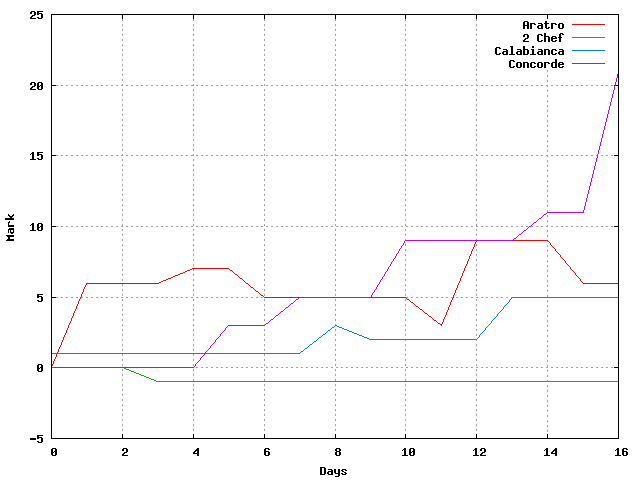
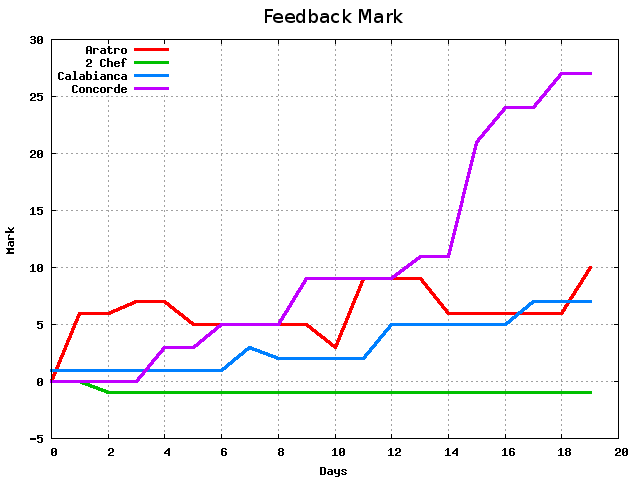
issue https://github.com/danieleceoldo/restaurant-poll/issues/6

diff --git a/polls/templates/polls/vote_result.html b/polls/templates/polls/vote_result.html
@@ -114,7 +114,9 @@
                 {% endif %}
 
                 {% load static %}
-		<img src="{% static "polls/images/feedback_graph.png" %}" alt="feedback_graph" style="display: block; margin: 0 auto; margin-top: 20px; margin-bottom: 20px"/>
+                <img src="{% static "polls/images/feedback_graph.png" %}" alt="feedback_graph" style="display: block; margin: 0 auto; margin-top: 20px; margin-bottom: 20px"/>
+                <img src="{% static "polls/images/win_history_graph.png" %}" alt="win_history_graph" style="display: block; margin: 0 auto; margin-top: 20px; margin-bottom: 20px"/>
+                <img src="{% static "polls/images/win_graph.png" %}" alt="win_history_graph" style="display: block; margin: 0 auto; margin-top: 20px; margin-bottom: 20px"/>
 
             </section>
             <nav class="aside">

diff --git a/polls/templates/polls/vote_waiting.html b/polls/templates/polls/vote_waiting.html
@@ -94,7 +94,9 @@
                 </ul>
 
                 {% load static %}
-		<img src="{% static "polls/images/feedback_graph.png" %}" alt="feedback_graph" style="display: block; margin: 0 auto; margin-top: 20px; margin-bottom: 20px"/>
+                <img src="{% static "polls/images/feedback_graph.png" %}" alt="feedback_graph" style="display: block; margin: 0 auto; margin-top: 20px; margin-bottom: 20px"/>
+                <img src="{% static "polls/images/win_history_graph.png" %}" alt="feedback_graph" style="display: block; margin: 0 auto; margin-top: 20px; margin-bottom: 20px"/>
+                <img src="{% static "polls/images/win_graph.png" %}" alt="feedback_graph" style="display: block; margin: 0 auto; margin-top: 20px; margin-bottom: 20px"/>
 
             </section>
             <nav class="aside">

diff --git a/polls/templates/polls/vote_detail.html b/polls/templates/polls/vote_detail.html
@@ -90,7 +90,9 @@
                 </form>
 
                 {% load static %}
-		<img src="{% static "polls/images/feedback_graph.png" %}" alt="feedback_graph" style="display: block; margin: 0 auto; margin-top: 20px;"/>
+                <img src="{% static "polls/images/feedback_graph.png" %}" alt="feedback_graph" style="display: block; margin: 0 auto; margin-top: 20px;"/>
+                <img src="{% static "polls/images/win_history_graph.png" %}" alt="feedback_graph" style="display: block; margin: 0 auto; margin-top: 20px;"/>
+                <img src="{% static "polls/images/win_graph.png" %}" alt="feedback_graph" style="display: block; margin: 0 auto; margin-top: 20px;"/>
 
             </section>
             <nav class="aside">

diff --git a/polls/views.py b/polls/views.py
@@ -168,11 +168,13 @@ def index(request):
     feedback_graph_stat_mtime = timezone.localtime(pytz.timezone('UTC').localize((datetime.fromtimestamp(stat('images/feedback_graph.png').st_ctime))))
 
     if now > feedback_graph_stat_mtime + timedelta(minutes=10):
-        f = open('feedback_graph_data.txt','w')
+
         if now > poll_close_time:
             ballot_dates = Ballot.objects.filter(date__lte=date.today()).order_by('date')
         else:
             ballot_dates = Ballot.objects.filter(date__lt=date.today()).order_by('date')
+
+        f = open('feedback_graph_data.txt','w')
         for name in Ranking.objects.all():
             f.write('# ' + str(name.restaurant) + '\n')
             mark = 0
@@ -194,6 +196,7 @@ def index(request):
         f.write('set grid\n')
         f.write('show grid\n')
         f.write('set key left top\n')
+        f.write('show key\n')
         f.write('set title "Feedback Mark" font "sans, 14"\n')
         f.write('show title\n')
         plot_str = ""
@@ -204,6 +207,79 @@ def index(request):
 
         system('gnuplot generate_feedback_graph.gnuplot')
         system('mv feedback_graph.png images')
+
+        restaurant_list = []
+        for name in Ranking.objects.all():
+            restaurant_list.append(name.restaurant)
+        restaurant_list.sort()
+
+        f = open('win_history_graph_data.txt','w')
+        for ballot in ballot_dates:
+            f.write(str(restaurant_list.index(ballot.winner)) + '\n')
+        f.close()
+
+        f = open('generate_win_history_graph.gnuplot','w')
+        f.write('set terminal png medium size 640,480\n')
+        f.write('set output "win_history_graph.png"\n')
+        f.write('set xlabel "Days"\n')
+        f.write('show xlabel\n')
+        f.write('set grid\n')
+        f.write('set grid noxtics\n')
+        f.write('show grid\n')
+        f.write('set key off\n')
+        f.write('set yrange [-1:4]\n')
+        f.write('show yrange\n')
+        f.write('set xrange [-1:]\n')
+        f.write('show xrange\n')
+        f.write('set pointsize 2\n')
+        f.write('set title "Win History" font "sans, 14"\n')
+        f.write('show title\n')
+        ytics_str = ""
+        for name in restaurant_list:
+            ytics_str += '"' + name + '" ' + str(restaurant_list.index(name)) + ", "
+        f.write('set ytics (' + ytics_str + ')\n')
+        f.write('plot "win_history_graph_data.txt" with points pointtype 5\n')
+        f.close()
+
+        system('gnuplot generate_win_history_graph.gnuplot')
+        system('mv win_history_graph.png images')
+
+        win = []
+        for x in restaurant_list:
+            win.append(0)
+
+        for ballot in ballot_dates:
+            win[restaurant_list.index(ballot.winner)] += 1
+
+        f = open('win_graph_data.txt','w')
+        for x in win:
+            f.write(str(x) + '\n')
+        f.close()
+
+        f = open('generate_win_graph.gnuplot','w')
+        f.write('set terminal png medium size 640,480\n')
+        f.write('set output "win_graph.png"\n')
+        f.write('set ylabel "Wins"\n')
+        f.write('show ylabel\n')
+        f.write('set grid\n')
+        f.write('set grid noxtics\n')
+        f.write('show grid\n')
+        f.write('set yrange [0:' + str(max(win)+2)  + ']\n')
+        f.write('show yrange\n')
+        f.write('set key off\n')
+        f.write('set boxwidth 1.5 relative\n')
+        f.write('set style fill pattern 2\n')
+        f.write('set title "Wins" font "sans, 14"\n')
+        f.write('show title\n')
+        xtics_str = ""
+        for name in restaurant_list:
+            xtics_str += '"' + name + '" ' + str(restaurant_list.index(name)) + ", "
+        f.write('set xtics (' + xtics_str + ')\n')
+        f.write('plot "win_graph_data.txt" with histogram\n')
+        f.close()
+
+        system('gnuplot generate_win_graph.gnuplot')
+        system('mv win_graph.png images')
 
     chdir(old_wd)
 
@@ -330,11 +406,11 @@ def statistics(request):
     stat = []
     stat_index = {}
     for name in Ranking.objects.all():
-        stat.append(
-            {'name': name.restaurant, 'win': 0, 'parity': 0, 'vote': 0,
-             'majority': 0, 'feedback': 0, 'most_rated': 0, 'rand_feedback': 0,
-             'rand_no_feedback': 0, 'mark': 0, 'feedback_num': 0}
-        )
+        stat.append( {
+            'name': name.restaurant, 'win': 0, 'parity': 0, 'vote': 0,
+            'majority': 0, 'feedback': 0, 'most_rated': 0, 'rand_feedback': 0,
+            'rand_no_feedback': 0, 'mark': 0, 'feedback_num': 0
+             } )
     for x in stat:
         stat_index[x['name']] = stat.index(x)
 
@@ -382,10 +458,10 @@ def statistics(request):
 
     if ballot_dates:
         context = {
-            'stat': stat,
-            'from_ballot_date' : ballot_dates[0],
-            'to_ballot_date' : ballot_dates[len(ballot_dates)-1]
-        }
+                'stat': stat,
+                'from_ballot_date' : ballot_dates[0],
+                'to_ballot_date' : ballot_dates[len(ballot_dates)-1]
+                }
     else:
         context = {}
 
